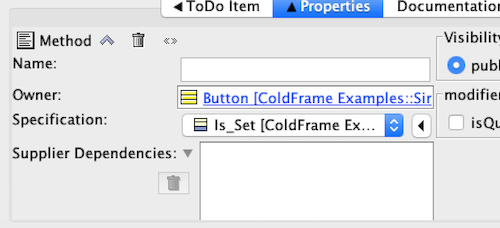
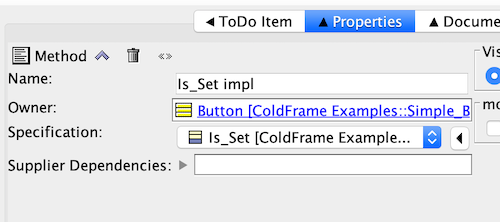
Methods implementing subprogram bodies can be named.
* operation-bodies.html: say how to name operation body methods.
  * body-lpanel-2.png: shows naming method.
  * body-rpanel-4.png: shows named method.

Changed region(s): [[0.0, 0.0, 1.0, 0.9459], [0.33, 0.1622, 0.36, 0.1892]]

diff --git a/operation-bodies.html b/operation-bodies.html
@@ -32,7 +32,7 @@ reducing the number of implementation files to be kept under
 configuration management, and also makes it much simpler to change the
 name and profile of an operation.
 
-<h2>"Modelling"</h2>
+<h2>Modelling</h2>
 
 <p>Given a class with an operation (<tt>Is_Set</tt>) selected,
 
@@ -81,7 +81,8 @@ src="body-rpanel-3.png"
 alt="Class Button. operation Is_Set, adding text>"
 
 <br>
-<p>To save, go to the left of the panel,
+<p>To save, go to the left of the panel, entering a
+suitable <i>Name</i> (e.g. <tt>Is_Set impl</tt>)
 
 <p>
 <img
@@ -91,8 +92,8 @@ alt="Class Button. operation Is_Set, save changed method>"
 
 <br>
 <p>and click on the left arrowhead by the <i>Specification</i>; the
-right of the panel now shows one (unnamed) method, which you can
-revisit by double-clicking on it.
+right of the panel now shows the method, which you can revisit by
+double-clicking on it. You can also find it in the browser.
 
 <p>
 <img
@@ -100,7 +101,7 @@ class="screenshot"
 src="body-rpanel-4.png"
 alt="Class Button. operation Is_Set, method added>"
 
-<pr>
+<br>
 <p>ColdFrame only allows one method. If you accidentally create
 another, you can delete it (it will be the bottom one, but do check!)
 by selecting it and clicking on the wastebin icon.
